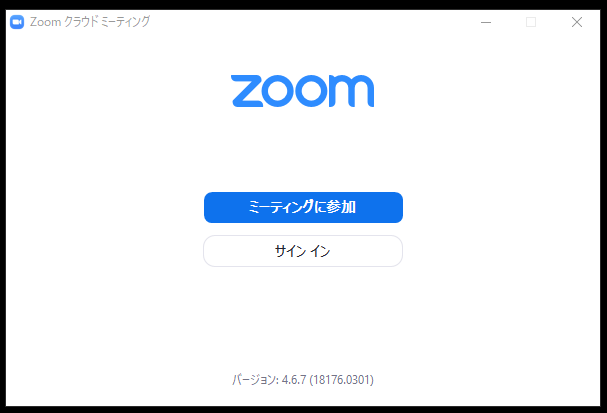
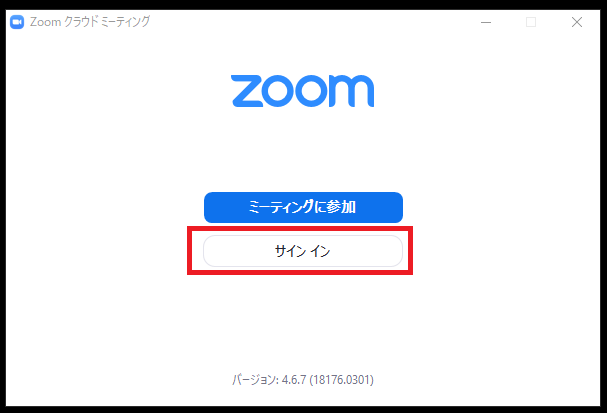
zoom create room

Changed region(s): [[0.2965, 0.523, 0.682, 0.6683]]

diff --git a/zoom/create_room.md b/zoom/create_room.md
@@ -6,29 +6,32 @@ title: Zoom 会議室の作り方
 
 TODO 動画
   
-* Zoom を起動します
-* 「サインイン」を押します  
+1. Zoom を起動します
+1. （サインインしていない場合）「サインイン」を押します  
   ![](img/zoom_join_pc_id_top.png)
   
-* 作成したアカウントの「メールアドレス」「パスワード」を入力して「サインイン」を押します  
+1. （サインインしていない場合）作成したアカウントの「メールアドレス」「パスワード」を入力して「サインイン」を押します  
   ![](img/zoom_signin.png)
   
-* 「スケジュール」を押します  
+1. 「スケジュール」を押します  
   ![](img/zoom_top2.png)
   
-* 以下の情報を設定してミーティングをスケジュールします．  
+1. 以下の情報を設定してミーティングをスケジュールします．  
   ![](img/zoom_schedule.png)  
   ![](img/zoom_schedule_detail.png)   
-以下，特に補足が必要な点に絞って説明します．  
-  * １ ビデオ: ミーティング開始時にビデオを最初からオンにするかオフにするか，ホスト（開催者）と参加者別に設定可能
-  * ２ オーディオ: 電話でも Zoom に繋げられてしまうため，特別な理由がない限り「コンピューターオーディオ」のみを選択することを推奨
-  * ３ カレンダー: Outlook や Google カレンダーと連携可能だが，ミーティングの情報をコピー&ペーストするためにも「他のカレンダー」を選択することを推奨
-  * ４ 詳細オプション ホストより前の参加を有効にする: オフにするとホストが入らないと他の参加者も会議室に入れない．他の参加者が早めに入って少し話しても良いのであればオンにすることを推奨
-  * ５ 詳細オプション エントリー時に参加者をミュート: 最初は一方向的に説明したいときなどにオンにすること推奨  
+
+
+  以下，特に補足が必要な点に絞って説明します．  
+  1. **ビデオ**: ミーティング開始時にビデオを最初からオンにするかオフにするか，ホスト（開催者）と参加者別に設定可能
+  1. **オーディオ**: 電話でも Zoom に繋げられてしまうため，特別な理由がない限り「コンピューターオーディオ」のみを選択することを推奨
+  1. **カレンダー**: Outlook や Google カレンダーと連携可能だが，ミーティングの情報をコピー&ペーストするためにも「他のカレンダー」を選択することを推奨
+  1. **詳細オプション**:  
+    **ホストより前の参加を有効にする**: オフにするとホストが入らないと他の参加者も会議室に入れない．他の参加者が早めに入って少し話しても良いのであればオンにすることを推奨  
+    **エントリー時に参加者をミュート**: 最初は一方向的に説明したいときなどにオンにすること推奨  
   
-* スケジュールの情報を確認して，「Zoomミーティングに参加する」の下に記載されている会議室の URL をメールなどを用いて参加者に通知します
-  * 【！重要！】パスワードを設定していたとしても，（設定を変更していなければ）URL にパスワードの情報が含まれているため，別途パスワードを共有する必要はありません
-  * 【！重要！】ここで 上記 URL 以外も共有してしまうと「市内番号を検索」の右に記載されている URL にアクセスしてしまう参加者もいるため，招待情報全てではなく，会議室の URL を抜き出して共有することをおすすめします
+1. スケジュールの情報を確認して，「Zoomミーティングに参加する」の下に記載されている**会議室の URL を抜き出して**，メールなどを用いて参加者に通知します
+  * 初期設定では **URL にパスワード情報が入っている**ため，パスワードを設定していたとしても別途パスワードを共有する必要はありません
+  * ここで 上記 URL 以外も共有してしまうと「市内番号を検索」の右に記載されている URL にアクセスしてしまう参加者もいるため，招待情報全てではなく，**会議室の URL を抜き出して共有することをおすすめ**します
   ![](img/zoom_schedule_info.png)
 
 

diff --git a/zoom/how_to_use.md b/zoom/how_to_use.md
@@ -16,9 +16,9 @@ Zoom の画面にマウスカーソルを合わせると下にメニューが出
   1. **画面を共有** : 自身のデバイスの画面を共有できます．
   1. **反応** : 「拍手」や「賛成」の意思を表明できます．
   1. **詳細** : 画面に入りきれなかったメニューがここに入ります（画面の横幅が十分大きい場合は全てのメニューが画面内に表示されて「詳細」が表示されないことがあります．  
-    * 参加者 : 参加者一覧を表示します．  
-	* チャット : テキストチャットを行います．  
-	* このコンピューターにレコーディング : ホストが許可をしている場合レコーディングができます．このボタンは開催関係者以外は利用しないことが多いです．  
+      **参加者** : 参加者一覧を表示します．  
+	  **チャット** : テキストチャットを行います．  
+	  **このコンピューターにレコーディング** : ホストが許可をしている場合レコーディングができます．このボタンは開催関係者以外は利用しないことが多いです．  
   1. **ミーティングを退出** : ミーティングを退出します．押した後確認画面が出るため，ボタンを押したらいきなり退出するわけではありません．
   
   
